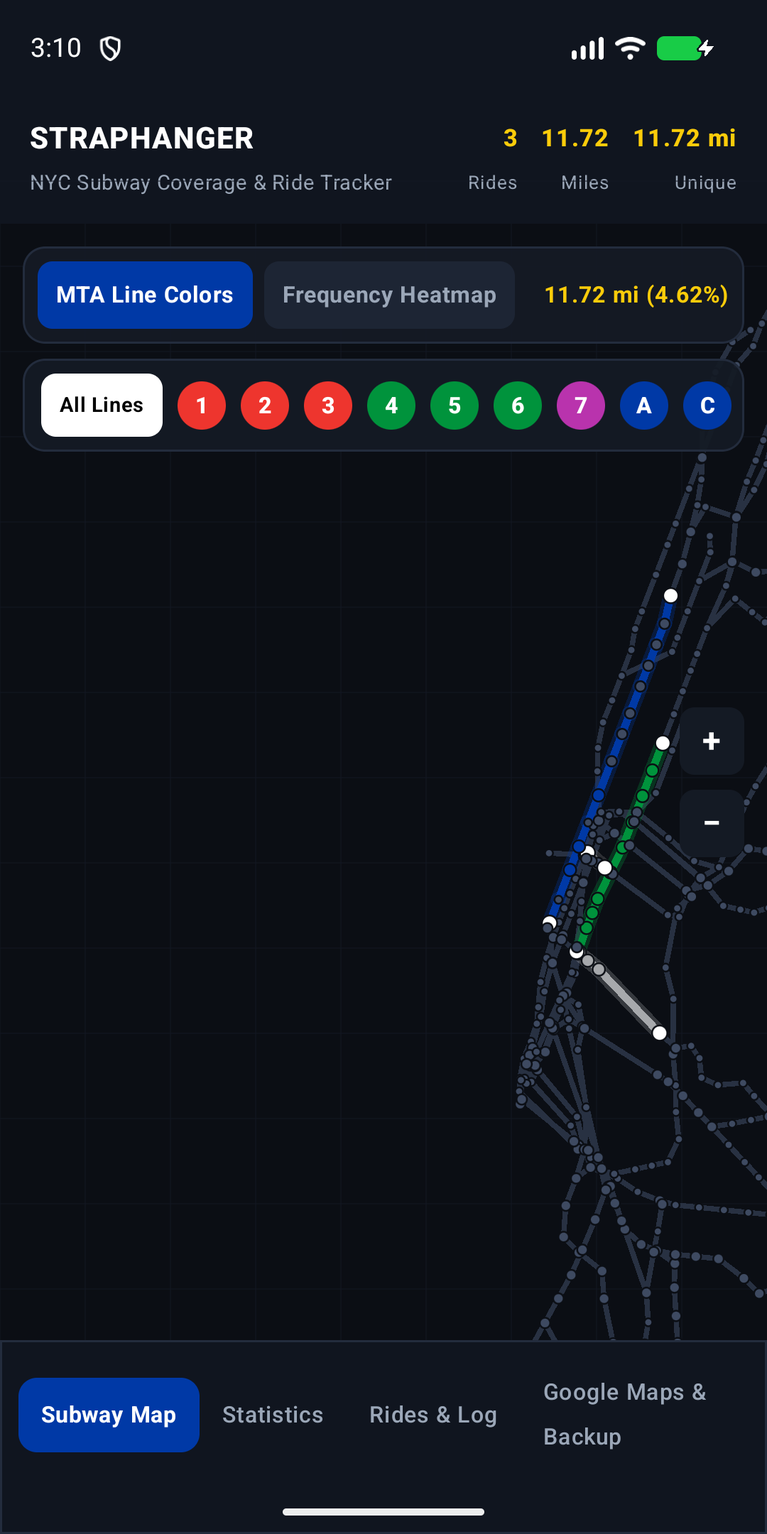
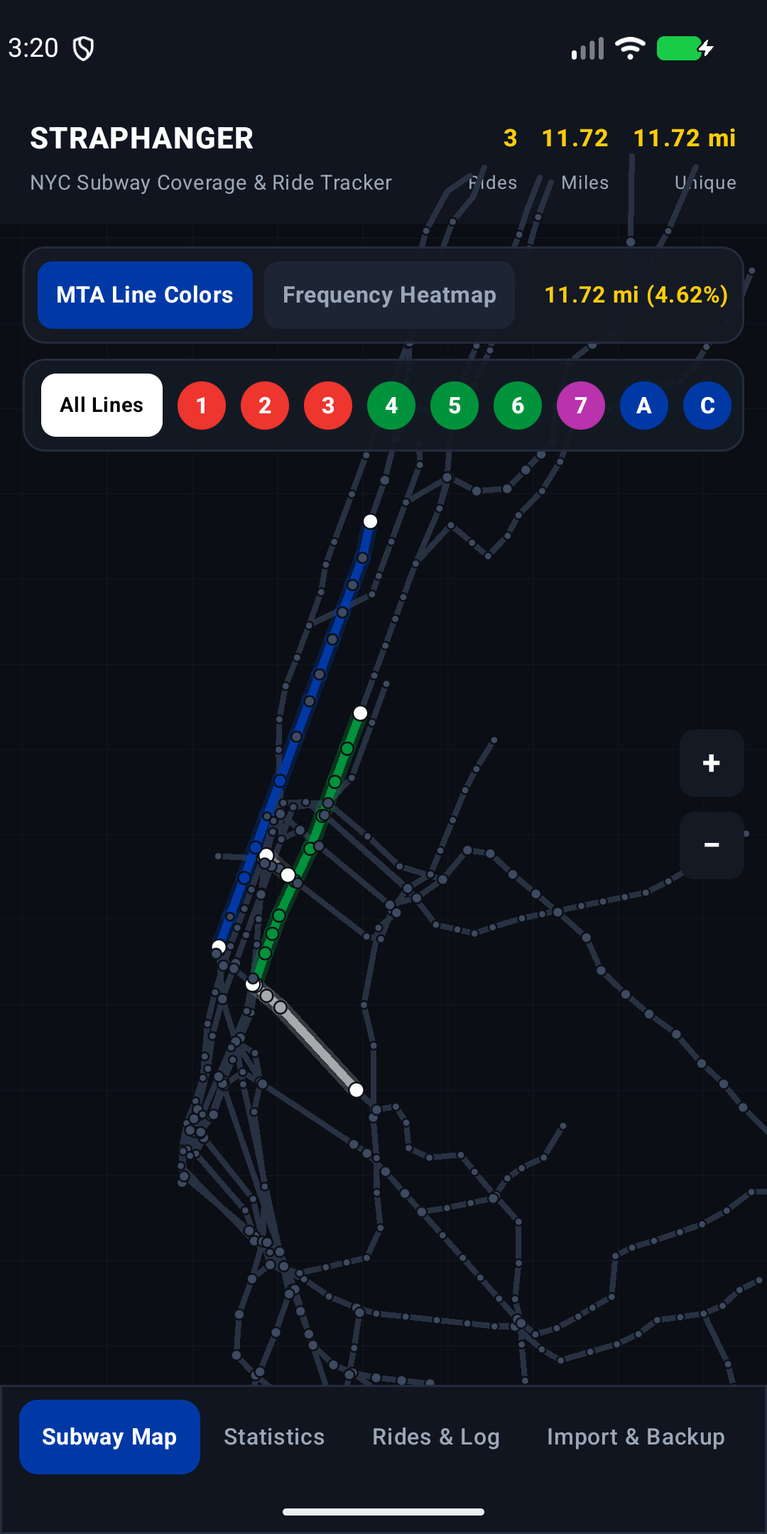
docs: rewrite README to match the implementation; remove promotional wording
Fix singular/plural in ride, stats and import messages, shorten the fourth tab label to Import & Backup, and retake the store screenshots.

diff --git a/shared/src/commonMain/kotlin/com/straphanger/app/ui/rides/RidesAndCaptureScreen.kt b/shared/src/commonMain/kotlin/com/straphanger/app/ui/rides/RidesAndCaptureScreen.kt
@@ -36,6 +36,7 @@ import androidx.compose.ui.unit.sp
 import com.straphanger.app.data.gtfs.StopRole
 import com.straphanger.app.data.gtfs.SubwayGraphEngine
 import com.straphanger.app.ui.StationIds
+import com.straphanger.app.ui.countOf
 import com.straphanger.app.ui.StraphangerUiState
 import com.straphanger.app.ui.theme.MtaColors
 import com.straphanger.app.ui.theme.MtaRouteBullet
@@ -281,7 +282,7 @@ fun RidesHistoryAndLoggerScreen(
                 )
 
                 Text(
-                    text = "Source: ${rec.ride.source.displayLabel} • $stoppedCount stops (${rec.legs.size} leg(s), $transferCount transfer(s))" +
+                    text = "Source: ${rec.ride.source.displayLabel} • $stoppedCount stops (${countOf(rec.legs.size, "leg")}, ${countOf(transferCount, "transfer")})" +
                         if (rec.ride.needsReview) " • NEEDS REVIEW" else "",
                     color = if (rec.ride.needsReview) MtaColors.AccentGold else MtaColors.TextSecondary,
                     fontSize = 11.sp
@@ -366,7 +367,7 @@ fun DataSourcesAndSyncScreen(
         verticalArrangement = Arrangement.spacedBy(14.dp)
     ) {
         Text(
-            text = "Google Maps Capture & Backup",
+            text = "Import & Backup",
             color = Color.White,
             fontSize = 20.sp,
             fontWeight = FontWeight.ExtraBold
@@ -407,7 +408,7 @@ fun DataSourcesAndSyncScreen(
                 fontWeight = FontWeight.Bold
             )
             Text(
-                text = "Supports Android on-device Timeline.json, iOS Google Maps Timeline export, and Google Takeout Semantic Location History. Automatically merges 15-min transfers and deduplicates rides.",
+                text = "Supports Android on-device Timeline.json, iOS Google Maps Timeline export, and Google Takeout Semantic Location History. Transfers made within 15 minutes are merged into one ride, and rides already stored are skipped.",
                 color = MtaColors.TextSecondary,
                 fontSize = 12.sp
             )
@@ -439,10 +440,10 @@ fun DataSourcesAndSyncScreen(
             }
             uiState.lastImportSummary?.let { summary ->
                 Text(
-                    text = "Last import: ${summary.rawSegmentsFound} subway segment(s) found, " +
-                        "${summary.ridesImported} ride(s) imported, " +
-                        "${summary.multiLegRidesMerged} transfer(s) merged, " +
-                        "${summary.duplicatesSkipped} duplicate(s) skipped, " +
+                    text = "Last import: ${countOf(summary.rawSegmentsFound, "subway segment")} found, " +
+                        "${countOf(summary.ridesImported, "ride")} imported, " +
+                        "${countOf(summary.multiLegRidesMerged, "transfer")} merged, " +
+                        "${countOf(summary.duplicatesSkipped, "duplicate")} skipped, " +
                         "${summary.unmatchedSegmentsSkipped} not matched to stations",
                     color = MtaColors.TextSecondary,
                     fontSize = 12.sp,

diff --git a/shared/src/commonMain/kotlin/com/straphanger/app/ui/StraphangerViewModel.kt b/shared/src/commonMain/kotlin/com/straphanger/app/ui/StraphangerViewModel.kt
@@ -52,7 +52,7 @@ enum class AppTab(val label: String) {
     MAP("Subway Map"),
     STATS("Statistics"),
     RIDES("Rides & Log"),
-    SOURCES("Google Maps & Backup")
+    SOURCES("Import & Backup")
 }
 
 data class StraphangerUiState(
@@ -459,7 +459,7 @@ class StraphangerViewModel(
         _uiState.update {
             it.copy(
                 isLogRideSheetOpen = false,
-                statusMessage = "Logged ride (${record.ride.totalDistanceMiles} mi across ${record.legs.size} leg(s))"
+                statusMessage = "Logged ride (${record.ride.totalDistanceMiles} mi across ${countOf(record.legs.size, "leg")})"
             )
         }
         return record
@@ -510,7 +510,7 @@ class StraphangerViewModel(
         if (!dao.lastSaveSucceeded) return 0
         _uiState.update {
             it.copy(
-                statusMessage = "Google Maps Timeline: imported ${summary.ridesImported} new ride(s), skipped ${summary.duplicatesSkipped} duplicate(s)"
+                statusMessage = "Google Maps Timeline: imported ${countOf(summary.ridesImported, "new ride")}, skipped ${countOf(summary.duplicatesSkipped, "duplicate")}"
             )
         }
         return summary.ridesImported
@@ -546,9 +546,9 @@ class StraphangerViewModel(
                     statusMessage = when {
                         !saved -> it.statusMessage
                         summary.rawSegmentsFound == 0 -> "No subway rides found in that file"
-                        else -> "Timeline file: imported ${summary.ridesImported} ride(s), " +
-                            "skipped ${summary.duplicatesSkipped} duplicate(s), " +
-                            "${summary.multiLegRidesMerged} transfer(s) merged"
+                        else -> "Timeline file: imported ${countOf(summary.ridesImported, "ride")}, " +
+                            "skipped ${countOf(summary.duplicatesSkipped, "duplicate")}, " +
+                            "${countOf(summary.multiLegRidesMerged, "transfer")} merged"
                     }
                 )
             }
@@ -573,7 +573,7 @@ class StraphangerViewModel(
     fun reportBackupExported(fileName: String?): String =
         setStatus(
             buildString {
-                append("Exported ${dao.getAllRides().size} ride(s)")
+                append("Exported ${countOf(dao.getAllRides().size, "ride")}")
                 if (!fileName.isNullOrBlank()) append(" to $fileName")
             }
         )
@@ -604,7 +604,7 @@ class StraphangerViewModel(
     fun reportBackupRestored(result: Result<Int>): String =
         setStatus(
             result.fold(
-                onSuccess = { n -> "Restored $n ride(s) from backup" },
+                onSuccess = { n -> "Restored ${countOf(n, "ride")} from backup" },
                 onFailure = { "Could not restore: the file is not a Straphanger backup" }
             )
         )

diff --git a/shared/src/commonMain/kotlin/com/straphanger/app/ui/stats/StatsDashboardScreen.kt b/shared/src/commonMain/kotlin/com/straphanger/app/ui/stats/StatsDashboardScreen.kt
@@ -30,6 +30,7 @@ import androidx.compose.ui.unit.sp
 import com.straphanger.app.domain.stats.StationGroupingMode
 import com.straphanger.app.domain.stats.StationVisitFilterMode
 import com.straphanger.app.ui.StraphangerUiState
+import com.straphanger.app.ui.countOf
 import com.straphanger.app.ui.theme.MtaColors
 import com.straphanger.app.ui.theme.MtaRouteBullet
 
@@ -170,7 +171,7 @@ fun StatsDashboardScreen(
             }
         }
 
-        // Per-Line Completion Bars with Official MTA Bullets
+        // Per-Line Completion Bars with route bullets
         Column(
             modifier = Modifier
                 .fillMaxWidth()
@@ -209,7 +210,7 @@ fun StatsDashboardScreen(
                             )
                         }
                         Text(
-                            text = "${lineStat.completionPercent}% (${lineStat.uniqueCorridorMilesRidden}/${lineStat.totalCorridorMilesAvailable} mi • ${lineStat.legRideCount} legs)",
+                            text = "${lineStat.completionPercent}% (${lineStat.uniqueCorridorMilesRidden}/${lineStat.totalCorridorMilesAvailable} mi • ${countOf(lineStat.legRideCount, "leg")})",
                             color = MtaColors.TextSecondary,
                             fontSize = 11.sp,
                             modifier = Modifier.testTag("line_stat_$rId")
@@ -256,7 +257,7 @@ fun StatsDashboardScreen(
                         fontWeight = FontWeight.Medium
                     )
                     Text(
-                        text = "${boro.stationsVisited}/${boro.totalStationsInGraph} stations • ${boro.milesRidden} mi (${boro.rideTouches} rides)",
+                        text = "${boro.stationsVisited}/${boro.totalStationsInGraph} stations • ${boro.milesRidden} mi (${countOf(boro.rideTouches, "ride")})",
                         color = MtaColors.TextSecondary,
                         fontSize = 12.sp
                     )
@@ -291,7 +292,7 @@ fun StatsDashboardScreen(
                 Spacer(modifier = Modifier.height(4.dp))
                 stats.monthlyTrends.forEach { trend ->
                     Text(
-                        text = "Month ${trend.yearMonth}: ${trend.rideCount} rides • ${trend.totalMiles} total mi (+${trend.newUniqueMiles} new unique mi)",
+                        text = "Month ${trend.yearMonth}: ${countOf(trend.rideCount, "ride")} • ${trend.totalMiles} total mi (+${trend.newUniqueMiles} new unique mi)",
                         color = MtaColors.AccentGold,
                         fontSize = 12.sp
                     )

diff --git a/shared/src/commonMain/kotlin/com/straphanger/app/ui/map/SubwayMapScreen.kt b/shared/src/commonMain/kotlin/com/straphanger/app/ui/map/SubwayMapScreen.kt
@@ -78,7 +78,7 @@ fun SubwayMapScreen(
     onStartRideFromStation: (String) -> Unit,
     onEndRideAtStation: (String) -> Unit
 ) {
-    // Pre-project geographic coordinates once (Adversarial Fix #7: zero GC allocation churn during pan/zoom)
+    // Pre-project geographic coordinates once (avoids allocating during pan and zoom)
     val projectedGeometry = remember(network) {
         val minLat = 40.505
         val maxLat = 40.900
@@ -127,7 +127,7 @@ fun SubwayMapScreen(
             .background(MtaColors.DarkBg)
             .testTag("subway_map_screen")
     ) {
-        // 60fps Interactive Subway Map Canvas
+        // Subway map canvas
         Canvas(
             modifier = Modifier
                 .fillMaxSize()
@@ -204,7 +204,7 @@ fun SubwayMapScreen(
                 )
             }
 
-            // Pass 2: Draw all RIDDEN subway segments in Vibrant Official MTA Line Colors or Heatmap
+            // Pass 2: Draw all RIDDEN subway segments in MTA line colors or the frequency heatmap
             for (seg in projectedGeometry.segments) {
                 if (selectedRoute != null && selectedRoute !in seg.routes) continue
                 val rideCount = stats.segmentRideCounts[seg.segmentId] ?: 0
@@ -237,7 +237,7 @@ fun SubwayMapScreen(
                     cap = StrokeCap.Round
                 )
 
-                // Crisp vibrant MTA core track
+                // Core track line
                 drawLine(
                     color = activeColor,
                     start = start,

diff --git a/shared/src/androidHostTest/kotlin/com/straphanger/app/data/capture/RideCaptureAndTimelineTest.kt b/shared/src/androidHostTest/kotlin/com/straphanger/app/data/capture/RideCaptureAndTimelineTest.kt
@@ -110,7 +110,7 @@ class RideCaptureAndTimelineTest {
     }
 
     @Test
-    fun dynamicGeofenceWindowStrictlyRespectsIosTwentyRegionCapAcrossAllBoroughs() {
+    fun dynamicGeofenceWindowStaysUnderIosTwentyRegionCapAcrossAllBoroughs() {
         val manager = DynamicGeofenceWindowManager(engine)
         val testPoints = listOf(
             40.7553 to -73.9875, // Manhattan: Times Sq
@@ -125,7 +125,7 @@ class RideCaptureAndTimelineTest {
             assertEquals(19, window.activeGeofences.size, "Must register 18 stations + 1 macro anchor = 19")
             assertTrue(
                 window.activeGeofences.size < DynamicGeofenceWindowManager.IOS_MAX_REGION_LIMIT,
-                "Active geofence count must remain strictly under iOS 20-region limit"
+                "Active geofence count must remain under iOS 20-region limit"
             )
             assertEquals(1, window.activeGeofences.count { it.isMacroAnchor })
         }

diff --git a/shared/src/commonMain/kotlin/com/straphanger/app/data/capture/DynamicGeofenceWindowManager.kt b/shared/src/commonMain/kotlin/com/straphanger/app/data/capture/DynamicGeofenceWindowManager.kt
@@ -27,11 +27,9 @@ data class GeofenceWindowSnapshot(
 )
 
 /**
- * Solves Adversarial Vulnerability #1:
- * iOS CoreLocation strictly enforces a 20-region limit per app (and Android enforces 100).
- * DynamicGeofenceWindowManager computes at most 18 nearest station complexes + 1 macro anchor
- * geofence (19 total, strictly <= 20) and dynamically refreshes the window when the user crosses
- * the macro anchor boundary.
+ * Chooses which geofences to register. iOS CoreLocation allows 20 monitored regions per app and
+ * Android allows 100. This class computes at most 18 nearest station complexes plus one anchor
+ * geofence (19 in total) and recomputes the window when the user leaves the anchor.
  */
 class DynamicGeofenceWindowManager(
     private val graphEngine: SubwayGraphEngine,

diff --git a/androidApp/src/androidTest/kotlin/com/straphanger/app/SubwayTrackerEmulatorTest.kt b/androidApp/src/androidTest/kotlin/com/straphanger/app/SubwayTrackerEmulatorTest.kt
@@ -77,7 +77,7 @@ class SubwayTrackerEmulatorTest {
         composeTestRule.onNodeWithTag("toggle_grouping_INDIVIDUAL_STATIONS").performScrollTo().performClick()
         composeTestRule.onNodeWithTag("toggle_visit_STOPPED_AT").performScrollTo().performClick()
 
-        // 6. Navigate to Google Maps & Backup tab and import Timeline.json sample
+        // 6. Navigate to Import & Backup tab and import Timeline.json sample
         composeTestRule.onNodeWithTag("nav_tab_SOURCES").performClick()
         composeTestRule.onNodeWithTag("sources_sync_screen").assertIsDisplayed()
         composeTestRule.onNodeWithTag("import_sample_timeline_btn").performScrollTo().performClick()

diff --git a/shared/src/commonMain/kotlin/com/straphanger/app/ui/theme/MtaColors.kt b/shared/src/commonMain/kotlin/com/straphanger/app/ui/theme/MtaColors.kt
@@ -72,9 +72,9 @@ object MtaColors {
         return when {
             rideCount <= 0 -> UnriddenTrack
             rideCount == 1 -> Color(0xFF00E5FF) // Cyan (1 ride)
-            rideCount in 2..3 -> Color(0xFF00E676) // Neon Green (2-3 rides)
-            rideCount in 4..5 -> Color(0xFFFFD600) // Electric Gold (4-5 rides)
-            else -> Color(0xFFFF1744) // Hot Magenta/Crimson (6+ rides)
+            rideCount in 2..3 -> Color(0xFF00E676) // Green (2-3 rides)
+            rideCount in 4..5 -> Color(0xFFFFD600) // Gold (4-5 rides)
+            else -> Color(0xFFFF1744) // Red (6+ rides)
         }
     }
 }

diff --git a/shared/src/commonMain/kotlin/com/straphanger/app/data/capture/TimelineJsonImporter.kt b/shared/src/commonMain/kotlin/com/straphanger/app/data/capture/TimelineJsonImporter.kt
@@ -31,7 +31,7 @@ data class TimelineImportSummary(
 )
 
 /**
- * Tri-Format Google Maps Timeline JSON Importer supporting:
+ * Google Maps Timeline JSON importer for three formats:
  * 1. Android on-device Timeline.json ("semanticSegments" with "40.7347°, -73.9899°" degree strings)
  * 2. iOS on-device Timeline.json (root array or "semanticSegments" with "geo:40.7347,-73.9899" URIs)
  * 3. Google Takeout Semantic Location History ("timelineObjects" -> "activitySegment" with E7 integers & transitPath)

diff --git a/shared/src/commonMain/kotlin/com/straphanger/app/ui/Plurals.kt b/shared/src/commonMain/kotlin/com/straphanger/app/ui/Plurals.kt
@@ -1,0 +1,5 @@
+package com.straphanger.app.ui
+
+/** Returns "1 ride" or "2 rides": the count followed by the singular or plural noun. */
+fun countOf(count: Int, singular: String, plural: String = singular + "s"): String =
+    "$count ${if (count == 1) singular else plural}"

diff --git a/README.md b/README.md
@@ -1,90 +1,61 @@
-# Straphanger — NYC Subway Ride & Coverage Tracker (Kotlin Multiplatform)
+# Straphanger
 
-**Straphanger** is a native **Android & iOS** application built with **Kotlin Multiplatform (KMP)** and **Compose Multiplatform** that tracks every trip you take on the NYC Subway, lights up the subway network map in vibrant official MTA line colors (or a ride-frequency heatmap), and computes deep system analytics.
+Straphanger records the NYC subway rides you take and shows which lines and stations you have covered. You can log a ride by hand, import a Google Maps Timeline file, share a route from Google Maps, or (on Android, if you turn it on) record rides from station geofences. The app shows the rides on a map, computes statistics and achievements, and keeps everything in a file on the device. It is an unofficial app and is not affiliated with or endorsed by the Metropolitan Transportation Authority (MTA).
 
----
+The code is Kotlin Multiplatform with Compose Multiplatform UI. The Android app is the only one that has been built and run. There is no Xcode project, and nothing has been built or tested on iOS.
 
-## Key Features
+## Feature status
 
-### 1. Dark-Mode NYC Subway Map & Coverage Coloring
-- **Official MTA Line Colors Mode**: Unridden physical tracks render in muted dark slate (`#283142`) while ridden corridors light up in vibrant official MTA trunk colors (`#EE352E`, `#00933C`, `#B933AD`, `#0039A6`, `#FF6319`, `#6CBE45`, `#996633`, `#A7A9AC`, `#FCCC0A`, `#808183`).
-- **Ride Frequency Heatmap Mode**: Colors ridden segments by how many times you've ridden them (`1 ride` Cyan → `2–3 rides` Neon Green → `4–5 rides` Gold → `6+ rides` Crimson).
-- **Per-Line Bullet Filter**: Filter the map by any individual subway service (`1`–`7`, `A`–`Z`, `S`, `SIR`) or tap any station to inspect visit status and log a trip.
-- **60fps Pre-Projected Geometry & Zoom LOD**: Pre-projects station and segment coordinates once at load time with viewport frustum culling and 3 Zoom Levels of Detail.
+`Works` means it was built and exercised. `Partial` means the code exists but was not built or run on that platform. `Not started` means there is no code.
 
-### 2. Multi-Source Google Maps & On-Device Ride Capture
-- **Tri-Format Google Maps `Timeline.json` Importer (`TimelineJsonImporter.kt`)**:
-  - Supports **Android on-device** `Timeline.json` (`semanticSegments` with `"40.7347°, -73.9899°"` degree strings).
-  - Supports **iOS on-device** `Timeline.json` (`semanticSegments` with `"geo:40.7347,-73.9899"` URIs).
-  - Supports **Google Takeout** `Semantic Location History` (`timelineObjects` → `activitySegment` with `latitudeE7`/`longitudeE7` integers and `transitPath`).
-  - Automatically merges consecutive `IN_SUBWAY` segments within a **15-minute in-system transfer window** into a single multi-leg ride and deduplicates against existing rides.
-- **Live Google Maps Transit Notification Listener & Share Target**:
-  - **Android**: `GoogleMapsTransitNotificationListener` (`NotificationListenerService`) automatically captures active Google Maps transit navigation notifications, plus `Intent.ACTION_SEND` for sharing routes from Google Maps.
-  - **iOS**: `straphanger://share` / `nycsubway://share` URL scheme handler.
-  - **Short-Link Redirect Unpacker (`GoogleMapsShareParser.kt`)**: Follows HTTP `302` `Location` headers on opaque `maps.app.goo.gl` links via Ktor to extract origin/destination stations.
-- **Dynamic Rolling Station Geofencing (`DynamicGeofenceWindowManager.kt`)**:
-  - Maintains a rolling window of the **18 nearest station complexes + 1 macro anchor geofence (19 total)** so the app stays strictly under **iOS `CoreLocation`'s 20-region limit** and **Android's 100-geofence limit**.
-  - Pairs station entry/exit with underground signal-drop detection and flags ambiguous Express vs. Local rides (`4`/`5` Express vs. `6` Local) with a one-tap **"Needs Review"** confirmation banner.
+| Feature | Android | iOS | Notes |
+| --- | --- | --- | --- |
+| Subway map with ridden lines, frequency heatmap, line filter | Works | Partial | Shared Compose code; never built for iOS. |
+| Manual ride logging, including transfers and express/local | Works | Partial | Shared code; never built for iOS. |
+| Statistics, achievements, stations vs. complexes toggle | Works | Partial | Shared code; never built for iOS. |
+| Local ride storage (atomic JSON file, corrupt file set aside) | Works | Partial | `rides.json` in app storage. The iOS file location was never run. |
+| Backup export and restore | Works | Partial | JSON file chosen through FileKit. Android Auto Backup also includes `rides.json`. |
+| Google Maps Timeline file import (three formats) | Works | Partial | File picker; merges transfers within 15 minutes and skips duplicates. |
+| Google Maps share intent and short-link resolution | Works | Partial | Short links are followed over the network; this is the only network use. The iOS URL-scheme handler in `iosApp` was never built. |
+| Google Maps navigation notification listener | Works | Not started | Android only. Needs notification access, granted on a settings screen. |
+| Passive geofence capture | Works | Not started | Rolling window of 18 stations plus 1 anchor, with a chain rule and disclosure screens. iOS geofencing is not implemented. |
+| About screen, privacy policy, data attribution | Works | Partial | Shared code. |
+| Cloud sync | Not started | Not started | Firebase was removed. There is no account and no server. |
+| Play Store release pipeline | Works | Not started | See [docs/RELEASING.md](docs/RELEASING.md). |
 
-### 3. Time-Aware Express/Local Routing & Multi-Leg Transfers (`SubwayGraphEngine.kt`)
-- **Multi-Leg Transfers Count as 1 Ride**: A single fare entry with free in-system transfers (e.g., `L` from *Bedford Ave* → *14 St–Union Sq* → `4 Express` to *86 St*) is stored as `1 RideEntity` with `2 RideLegEntity` rows — counting as **1 ride** in *Total Rides Since Tracking Started* while crediting **both** the `L` and `4` lines with exact mileage and completion %.
-- **Time-of-Day Service Periods**: Automatically switches routes like the `A`, `2`, and `4` from daytime Express to **Late Night Local** (`11:45 PM – 5:30 AM`).
-- **Express Stop Skipping**: Riding an Express train colors the entire physical track corridor traversed and counts its full mileage, while excluding skipped local stations from *Stations Stopped At*.
+## Setup
 
-### 4. Comprehensive Statistics & Achievements (`SubwayStatsCalculator.kt`)
-- **Headline Stats**: Total Rides, Total Miles Ridden, Unique System Miles Ridden, System Completion %, and Total Hours Underground.
-- **Interactive Station Counting Toggles**:
-  - **472 Individual MTA Stations** vs. **424 Connected Station Complexes**.
-  - **All Stations Stopped At** (excluding stations skipped by an express train) vs. **Boarded / Exited / Transferred Only**.
-- **Breakdowns & Badges**: Per-line completion bars with official MTA bullets, 5-borough breakdown, top stations & O-D pairs, monthly mileage trends, and 8 unlockable NYC Subway Achievements.
+- JDK 17.
+- Android SDK with platform 37 (`compileSdk`; `targetSdk` is 36, `minSdk` is 26).
+- Gradle 9.9.1 (wrapper), Kotlin 2.4.21, Android Gradle Plugin 9.5.1, Compose Multiplatform 1.12.2.
+- iOS targets are `iosArm64` and `iosSimulatorArm64`. Building them needs macOS with Xcode; no Xcode version has been used, because no iOS build has been made. `iosX64` is not a target because Compose 1.12 does not publish it.
 
-### 5. Local Storage + File Backup
-- Rides are stored on the device via `SubwayDao` and work offline. There is no cloud sync. "Export backup…" writes all rides to a JSON file you choose, and "Restore from backup…" reads such a file back (rides are matched by id, so restoring twice does not duplicate them). File dialogs use FileKit.
+## Build and test
 
----
-
-## Project Structure
-
-```text
-straphanger/
-├── .github/workflows/kmp-ci.yml       # Android APK, Android Emulator UI Tests, & iOS Simulator CI
-├── shared/                            # KMP library (Android + iOS): domain, data, Compose UI
-│   ├── src/commonMain/kotlin/com/straphanger/app/
-│   │   ├── data/gtfs/                 # NycSubwayNetworkCatalog, SubwayGraphEngine, SubwayModels
-│   │   ├── data/local/                # Entities (Ride -> RideLegs -> Segments & Stops), SubwayDao
-│   │   ├── data/capture/              # TimelineJsonImporter, GoogleMapsShareParser, DynamicGeofenceWindowManager
-│   │   ├── data/sync/                 # BackupExportManager (JSON export / import)
-│   │   ├── domain/stats/              # SubwayStatsCalculator, AchievementEngine
-│   │   └── ui/                        # SubwayMapScreen, StatsDashboardScreen, RidesAndCaptureScreen, StraphangerViewModel
-│   ├── src/commonTest/                # Multiplatform unit test suite (runs on the JVM via :shared:testAndroidHostTest)
-│   └── src/iosMain/                   # MainViewController (ComposeUIViewController); framework baseName "ComposeApp"
-├── androidApp/                        # Android application
-│   ├── src/main/                      # MainActivity, GoogleMapsTransitNotificationListener, AndroidManifest.xml, res/
-│   └── src/androidTest/               # SubwayTrackerEmulatorTest (Compose UI Emulator test suite)
-└── iosApp/                            # Xcode SwiftUI host project for iOS
-```
-
----
-
-## Building & Running Tests
-
-### Run Shared KMP Unit Tests
 ```bash
-./gradlew :shared:testAndroidHostTest
+./gradlew :shared:testAndroidHostTest             # shared unit tests on the JVM
+./gradlew :androidApp:assembleDebug               # debug APK
+./gradlew :androidApp:connectedDebugAndroidTest   # instrumented tests; needs a device or emulator
+./gradlew :shared:iosSimulatorArm64Test           # iOS simulator tests; macOS only, not run so far
+scripts/check-listing.sh                          # Play listing text checks
 ```
 
-### Build Android Debug APK
-```bash
-./gradlew :androidApp:assembleDebug
-# Output: androidApp/build/outputs/apk/debug/androidApp-debug.apk
-```
+Modules: `:shared` (library), `:androidApp`, `:tools:gtfs-import` (JVM generator for the network data). Release builds, signing and the Play listing are described in [docs/RELEASING.md](docs/RELEASING.md).
 
-### Run Android Emulator Instrumented Compose UI Tests
-```bash
-./gradlew :androidApp:connectedDebugAndroidTest
-```
+## Data sources
 
-### Build & Test iOS Simulator Target (on macOS)
-```bash
-./gradlew :shared:iosSimulatorArm64Test :shared:linkDebugFrameworkIosSimulatorArm64
-```
+The subway network (496 stations in 445 complexes) is generated from the MTA's static GTFS feed and the MTA Subway Stations dataset on data.ny.gov, downloaded 2026-11-10. The generator, source URLs, checksums and terms are in [tools/gtfs-import/README.md](tools/gtfs-import/README.md). The attribution shown in the app is:
+
+> Subway data from the Metropolitan Transportation Authority (MTA) GTFS feed and the MTA Subway Stations dataset on data.ny.gov. Straphanger is not affiliated with or endorsed by the MTA.
+
+The privacy policy is [docs/privacy-policy.md](docs/privacy-policy.md).
+
+## Known limitations
+
+- Passive capture needs background location access. Google Play restricts this permission and reviews apps that request it, so the app shows a disclosure first and the Play Console declaration must match it.
+- There is no sync between devices or platforms. Move rides with the backup file.
+- Geofences are not registered again after a reboot until the app is opened, so passive capture stops until then.
+- A single-stop ride shorter than about 0.5 mi is not recorded automatically.
+- The MTA data terms say the data may not be modified. The generator rewrites the feed into the app's own JSON format, so the maintainer must review the terms before a public release. This is not legal advice.
+- The app draws colored route circles with letters that resemble MTA route bullets. The MTA asserts trademarks on its symbols; the maintainer should check this before a public release.
+- iOS is untested, as the status table shows.
